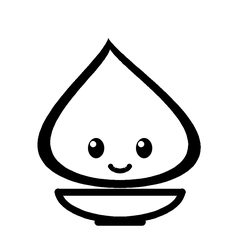
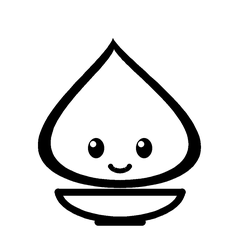
ledger-app: 電子ペーパーの残像を減らす（書き換えの方法を変える）
実機（Flex）で残像が気になったため。
- 起きるアニメーションを高速の白黒書き換えから、通常の白黒書き換えに。コマ間隔を 300ms → 450ms、コマ数を 6 → 4
- 起きている間のタップは無視する（描きかけのコマが重なるのを防ぐ）
- 揺れ幅を小さくして、2枚の差を炎の先だけにする
- 長押しのあと（承認）と、黒い BLOCKED 画面のあとは、いったん画面を白く消してから次を描く

エミュレーターでは残像が再現しないので、効き目は実機で確かめる必要がある。
実機では、範囲の表示・長押し・署名・Broker の ecrecover まで確認済み（この変更の前の版）。

diff --git a/ledger-app/src/app_ui/screens.rs b/ledger-app/src/app_ui/screens.rs
@@ -41,7 +41,11 @@ pub enum Choice {
 
 /// The APDU status sent to a host that talks while a screen is waiting for the person.
 const SW_BUSY: u16 = 0x6FAA;
-const TICK_MS: u32 = 300;
+/// One tick of the screen timer. E Ink needs time to settle between frames:
+/// redrawing faster than this leaves the previous frame showing through.
+const TICK_MS: u32 = 450;
+/// Frames in the wake-up animation after a tap: wake, lean, lean back, then sleep.
+const WIGGLE_FRAMES: u8 = 4;
 
 static mut LAYOUT: *mut nbgl_layout_t = null_mut();
 static mut ICON: MaybeUninit<nbgl_icon_details_t> = MaybeUninit::uninit();
@@ -127,6 +131,15 @@ unsafe fn finish(mode: nbgl_refresh_mode_t) {
     nbgl_refreshSpecial(mode);
 }
 
+/// Clears the panel to white before the next screen is drawn. Used after a
+/// screen that leaves a strong afterimage (the black BLOCKED screen, and the
+/// fast refreshes of the hold button), so the next screen starts from clean paper.
+unsafe fn wipe() {
+    begin(false, None);
+    nbgl_layoutDraw(LAYOUT);
+    nbgl_refreshSpecial(INIT_REFRESH);
+}
+
 /// Runs the device's event loop until the person makes a choice. A host that
 /// sends a command meanwhile is told the device is busy; it cannot answer for them.
 fn wait(comm: &mut Comm) -> Choice {
@@ -189,7 +202,7 @@ unsafe extern "C" fn on_idle_tick() {
         WIGGLE_LEFT -= 1;
         WIGGLE_STEP = WIGGLE_STEP.wrapping_add(1);
         let glyph = if WIGGLE_STEP % 2 == 0 { AWAKE_A } else { AWAKE_B };
-        draw_idle(&glyph, c"Hm? I'm here.".as_ptr(), true, BLACK_AND_WHITE_FAST_REFRESH);
+        draw_idle(&glyph, c"Hm? I'm here.".as_ptr(), true, BLACK_AND_WHITE_REFRESH);
     } else if WIGGLE_LEFT == 1 {
         WIGGLE_LEFT = 0;
         draw_idle(&ASLEEP, c"All quiet.".as_ptr(), false, FULL_COLOR_CLEAN_REFRESH);
@@ -202,9 +215,14 @@ unsafe extern "C" fn on_idle_action(token: c_int, _index: u8) {
     match token as u8 {
         T_LEFT => ledger_device_sdk::exit_app(0),
         T_TAP => {
-            WIGGLE_LEFT = 6;
+            // A tap while already awake does nothing: restarting the animation
+            // would stack half-drawn frames on top of each other.
+            if WIGGLE_LEFT > 0 {
+                return;
+            }
+            WIGGLE_LEFT = WIGGLE_FRAMES;
             WIGGLE_STEP = 0;
-            draw_idle(&AWAKE_A, c"Hm? I'm here.".as_ptr(), true, BLACK_AND_WHITE_FAST_REFRESH);
+            draw_idle(&AWAKE_A, c"Hm? I'm here.".as_ptr(), true, BLACK_AND_WHITE_REFRESH);
         }
         _ => {}
     }
@@ -271,11 +289,12 @@ pub fn lit(comm: &mut Comm, summary: &str) {
     let summary_c = CString::new(summary).unwrap_or_default();
     unsafe {
         LIT = LIT.saturating_add(1);
+        wipe();
         begin(true, Some(on_tick));
         center(&HAPPY, c"A light is lit.".as_ptr(), summary_c.as_ptr());
         finish(FULL_COLOR_CLEAN_REFRESH);
     }
-    show_for(comm, 10);
+    show_for(comm, 7);
 }
 
 /// The person said no: nothing was signed.
@@ -285,7 +304,7 @@ pub fn not_lit(comm: &mut Comm) {
         center(&ASLEEP, c"Nothing was signed.".as_ptr(), c"The skill did not get the key.".as_ptr());
         finish(FULL_COLOR_CLEAN_REFRESH);
     }
-    show_for(comm, 8);
+    show_for(comm, 6);
 }
 
 /// A request outside the range was stopped. Black screen, so it cannot be
@@ -307,6 +326,7 @@ pub fn blocked(comm: &mut Comm, what: &str) {
         finish(FULL_COLOR_CLEAN_REFRESH);
     }
     wait(comm);
+    unsafe { wipe() };
 }
 
 /// The skill changed after it was allowed, so its light went out.

diff --git a/ledger-app/tools/draw_flame.py b/ledger-app/tools/draw_flame.py
@@ -144,8 +144,8 @@ def gone():
 
 FRAMES = {
     "flame_asleep": asleep,
-    "flame_awake_a": lambda: awake(-0.10),
-    "flame_awake_b": lambda: awake(0.10),
+    "flame_awake_a": lambda: awake(-0.06),
+    "flame_awake_b": lambda: awake(0.06),
     "flame_happy": happy,
     "flame_guard": guard,
     "flame_gone": gone,
